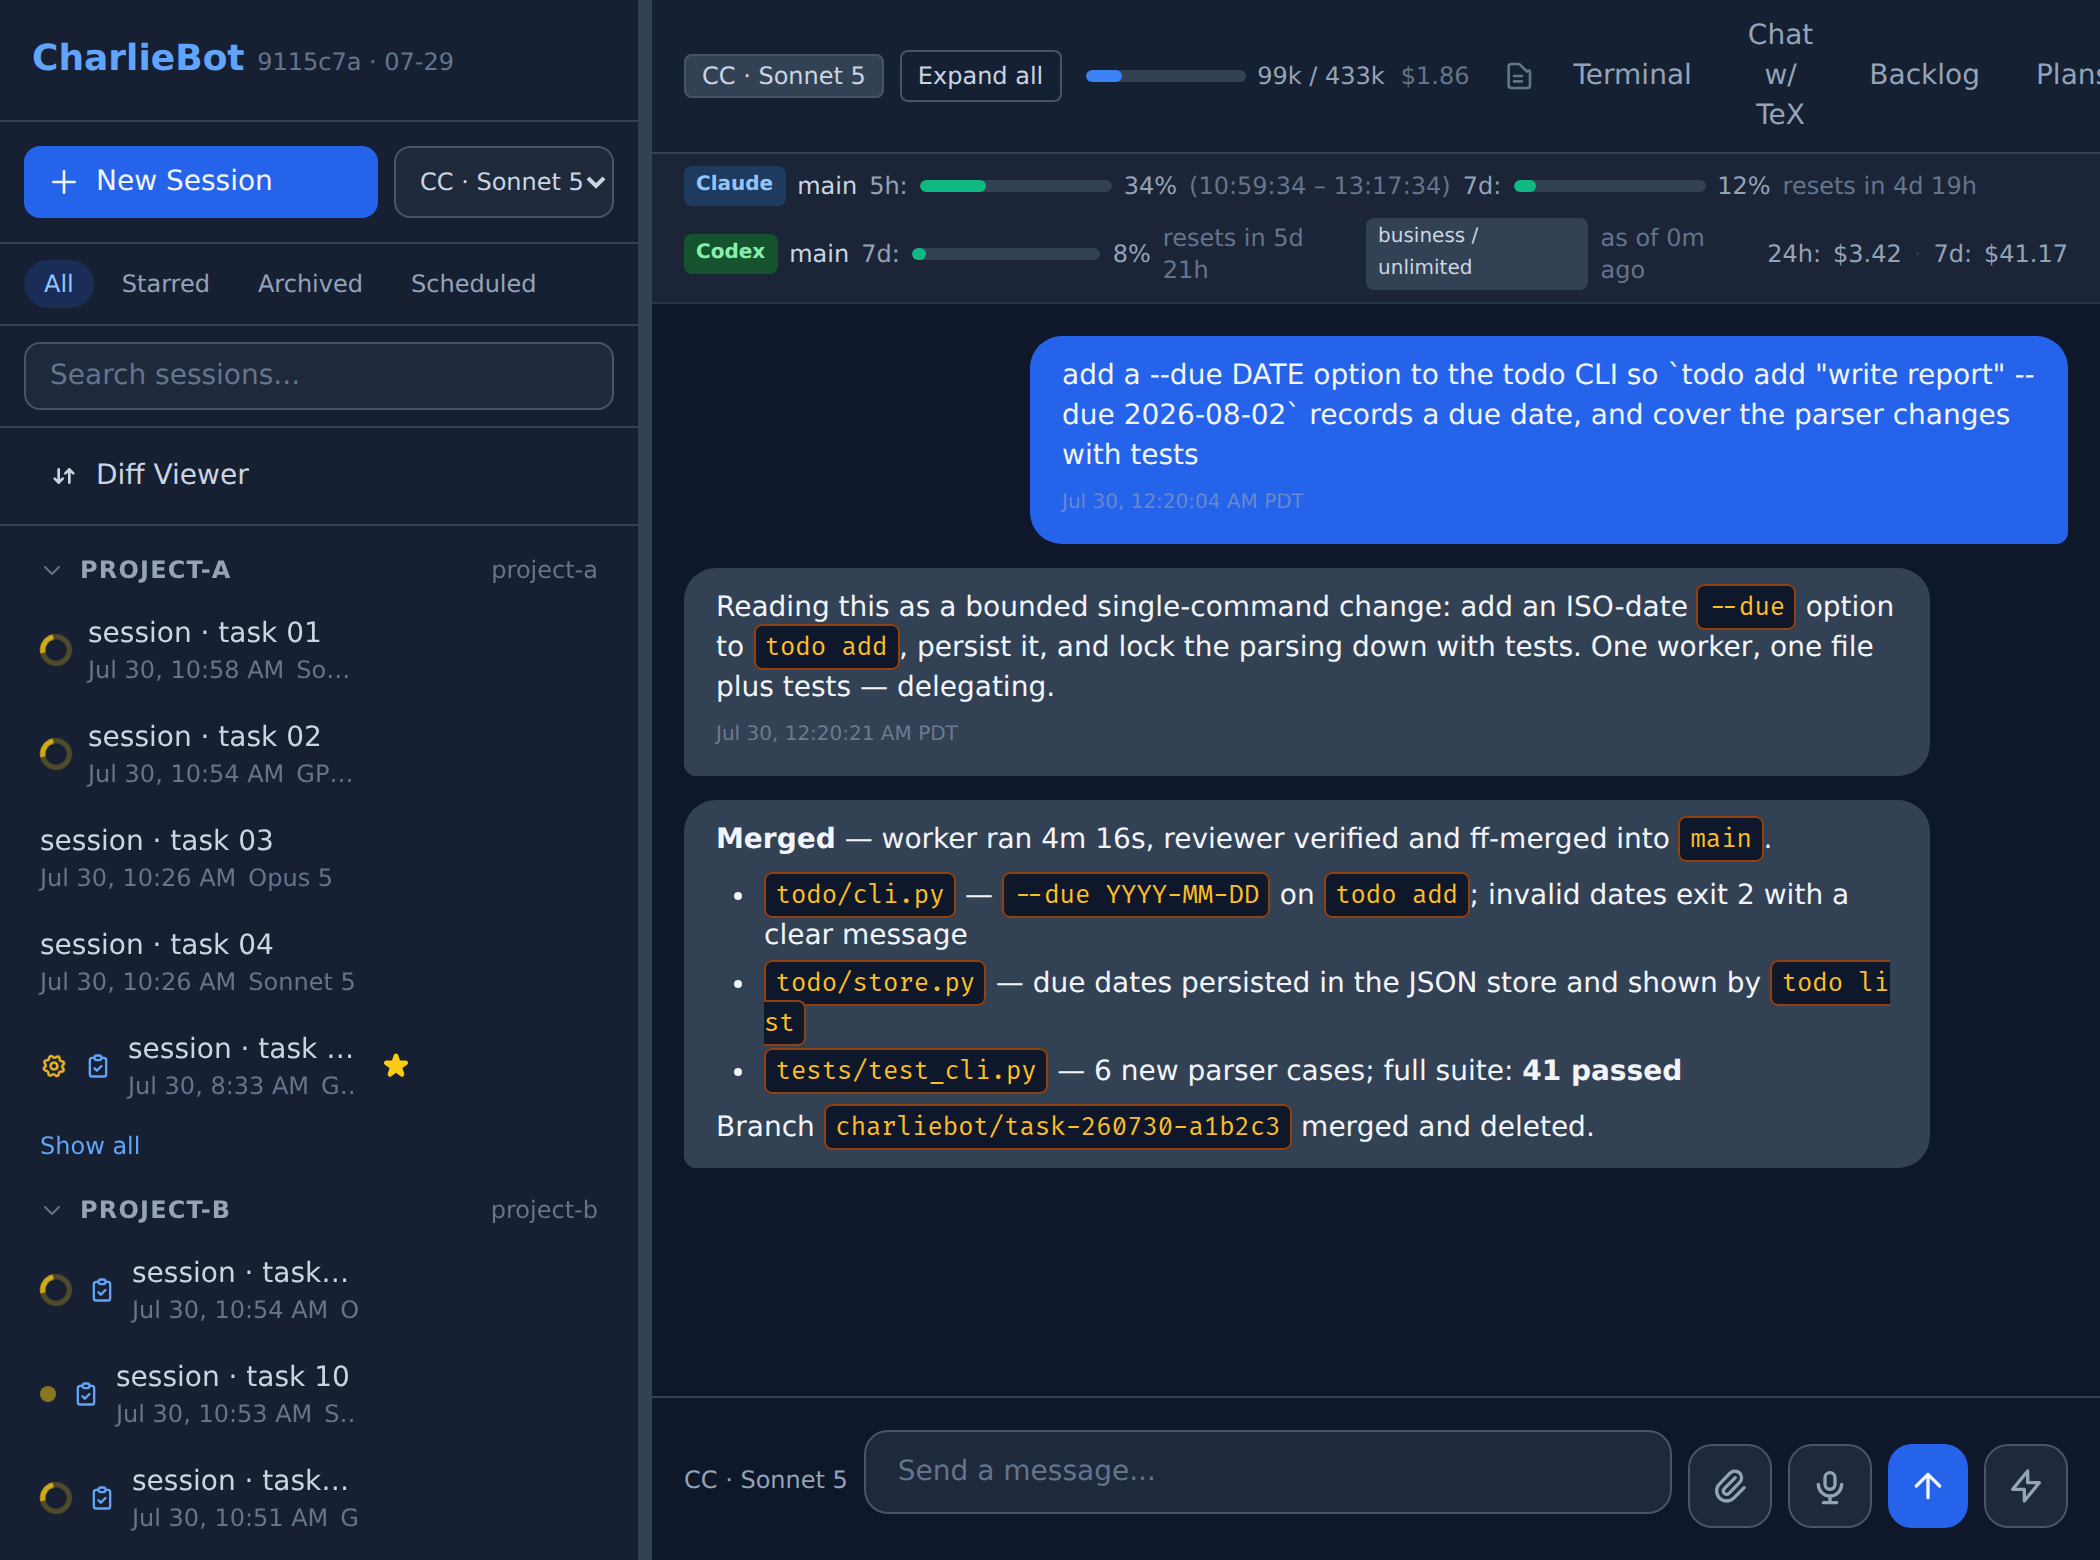
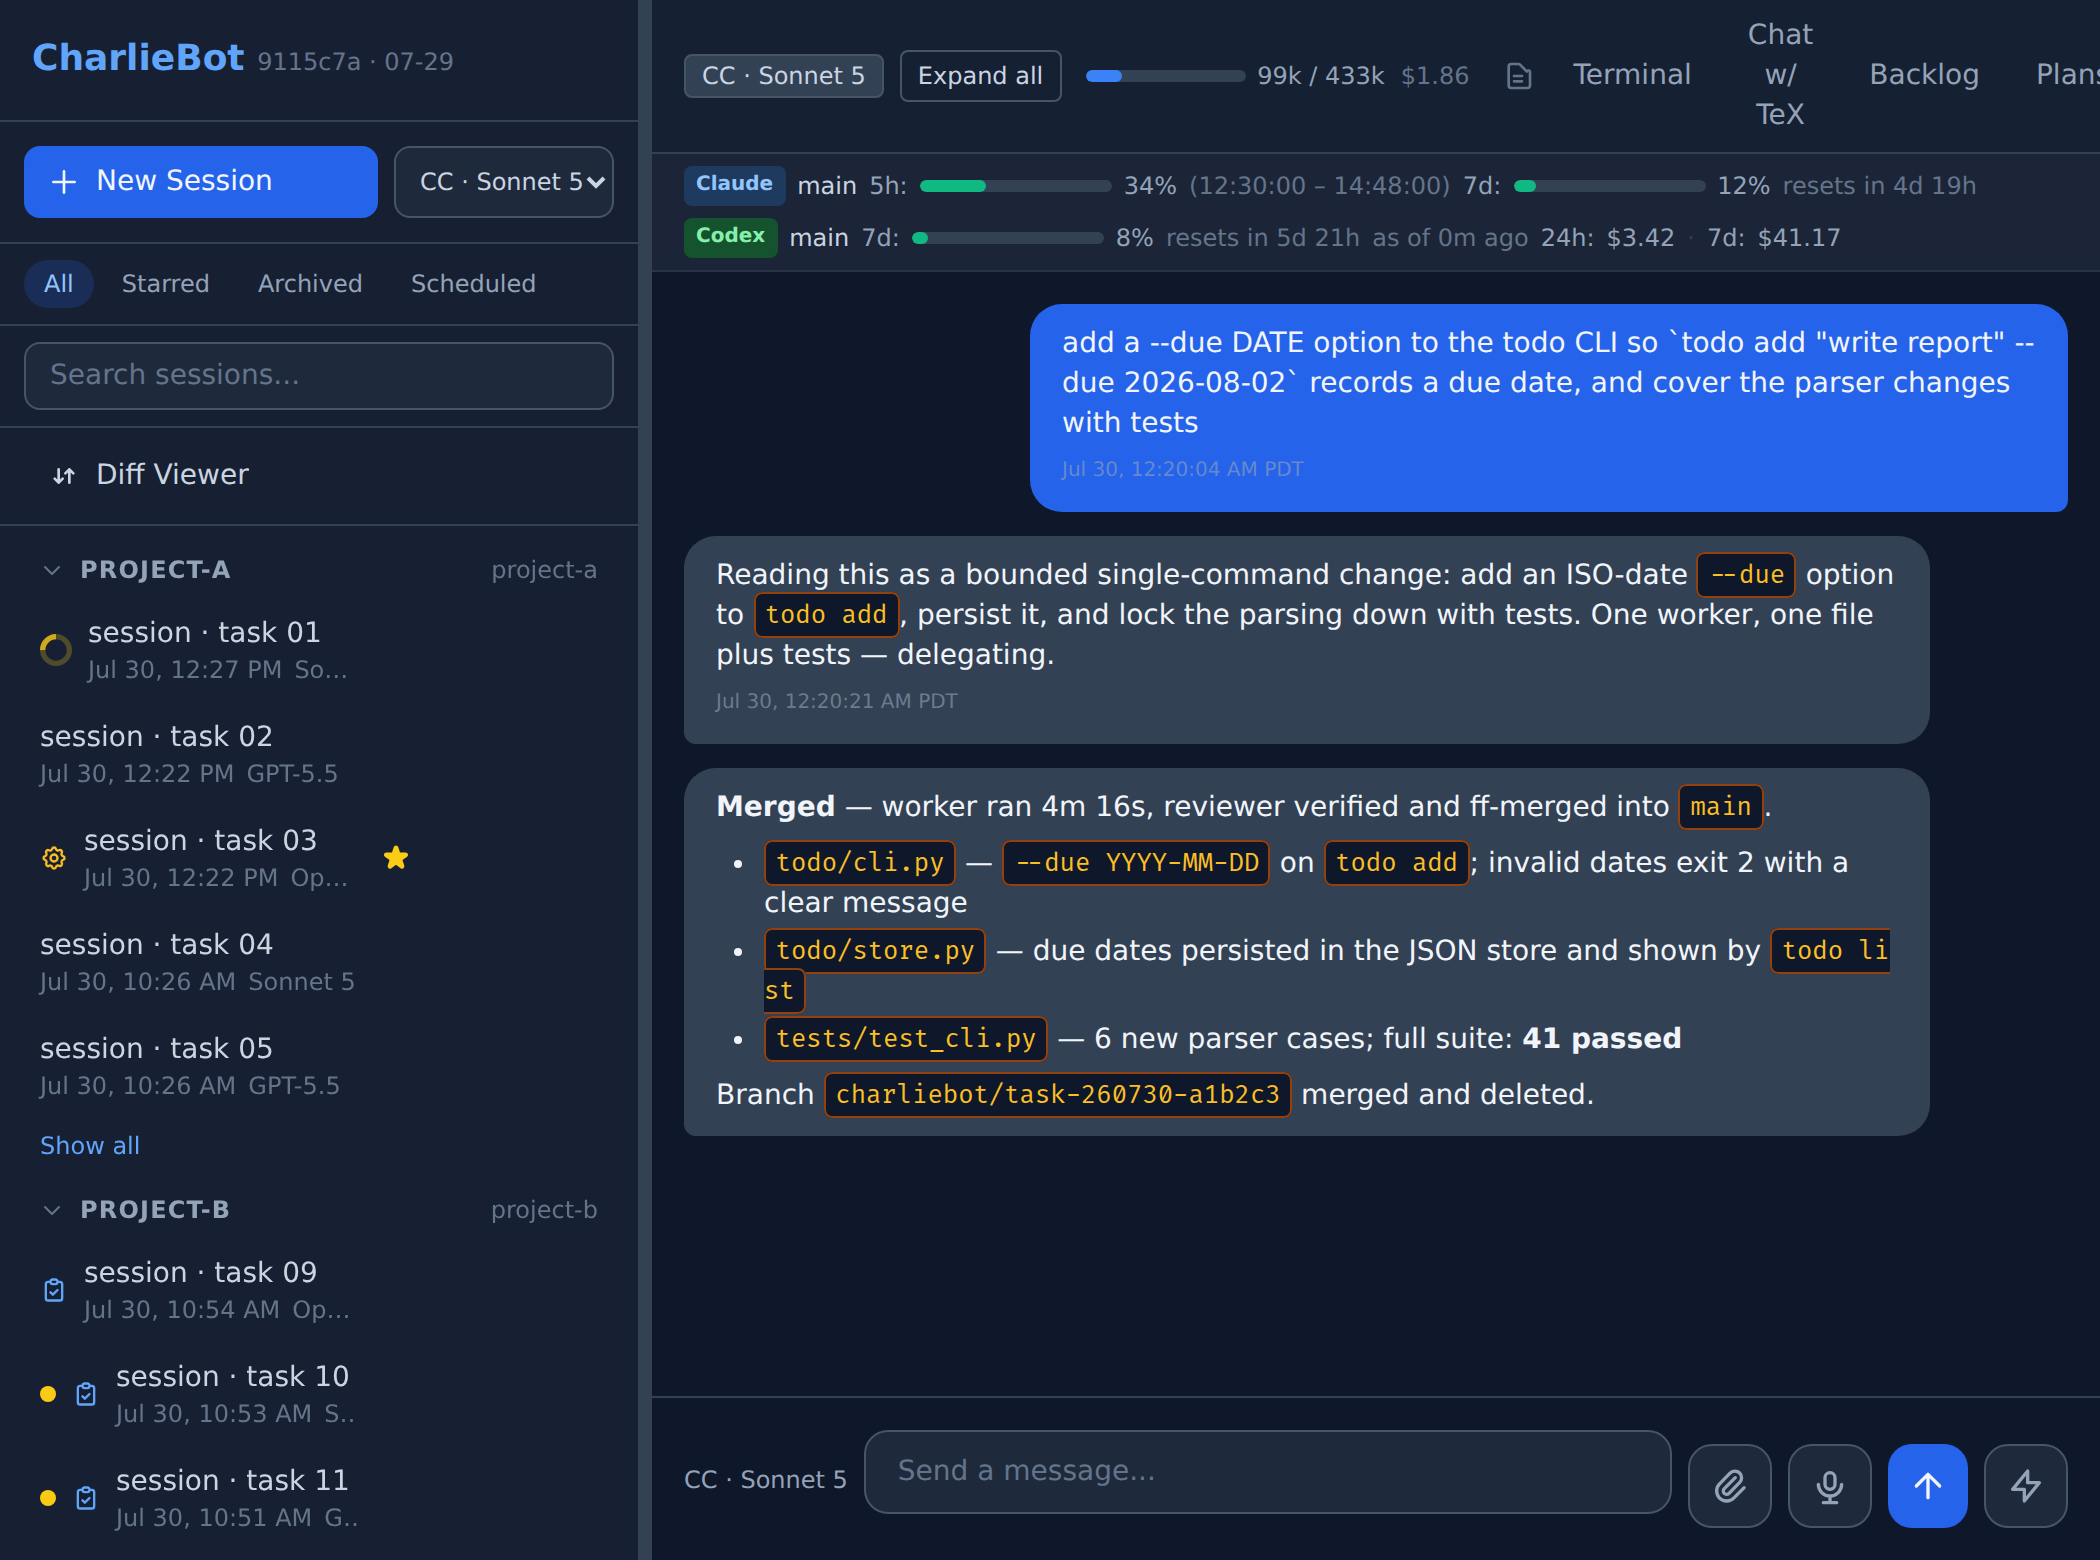
docs(readme): add plans-tab screenshot, refresh chat shots without plan badge
Why: the README's chat screenshots still showed the Codex "business / unlimited" plan badge that no longer matches the provider UI, and the Plans tab had no visual documentation despite being a core part of the approval lifecycle.

diff --git a/README.md b/README.md
@@ -54,6 +54,10 @@ CharlieBot is a self-hosted multi-agent orchestration system: a master agent dri
   <img src="docs/assets/readme/ui-chat-mobile.png" alt="Mobile chat view" width="320">
 </p>
 <p align="center"><i>Mobile: the same chat and session list in a phone-width layout.</i></p>
+<p align="center">
+  <img src="docs/assets/readme/ui-plans-desktop.png" alt="Plans tab" width="880">
+</p>
+<p align="center"><i>Plans: an approved plan's HTML artifact in the viewer — plan/version switchers, revision badges, and resolved trade-offs from the approval lifecycle.</i></p>
 
 ## Prerequisites
 
